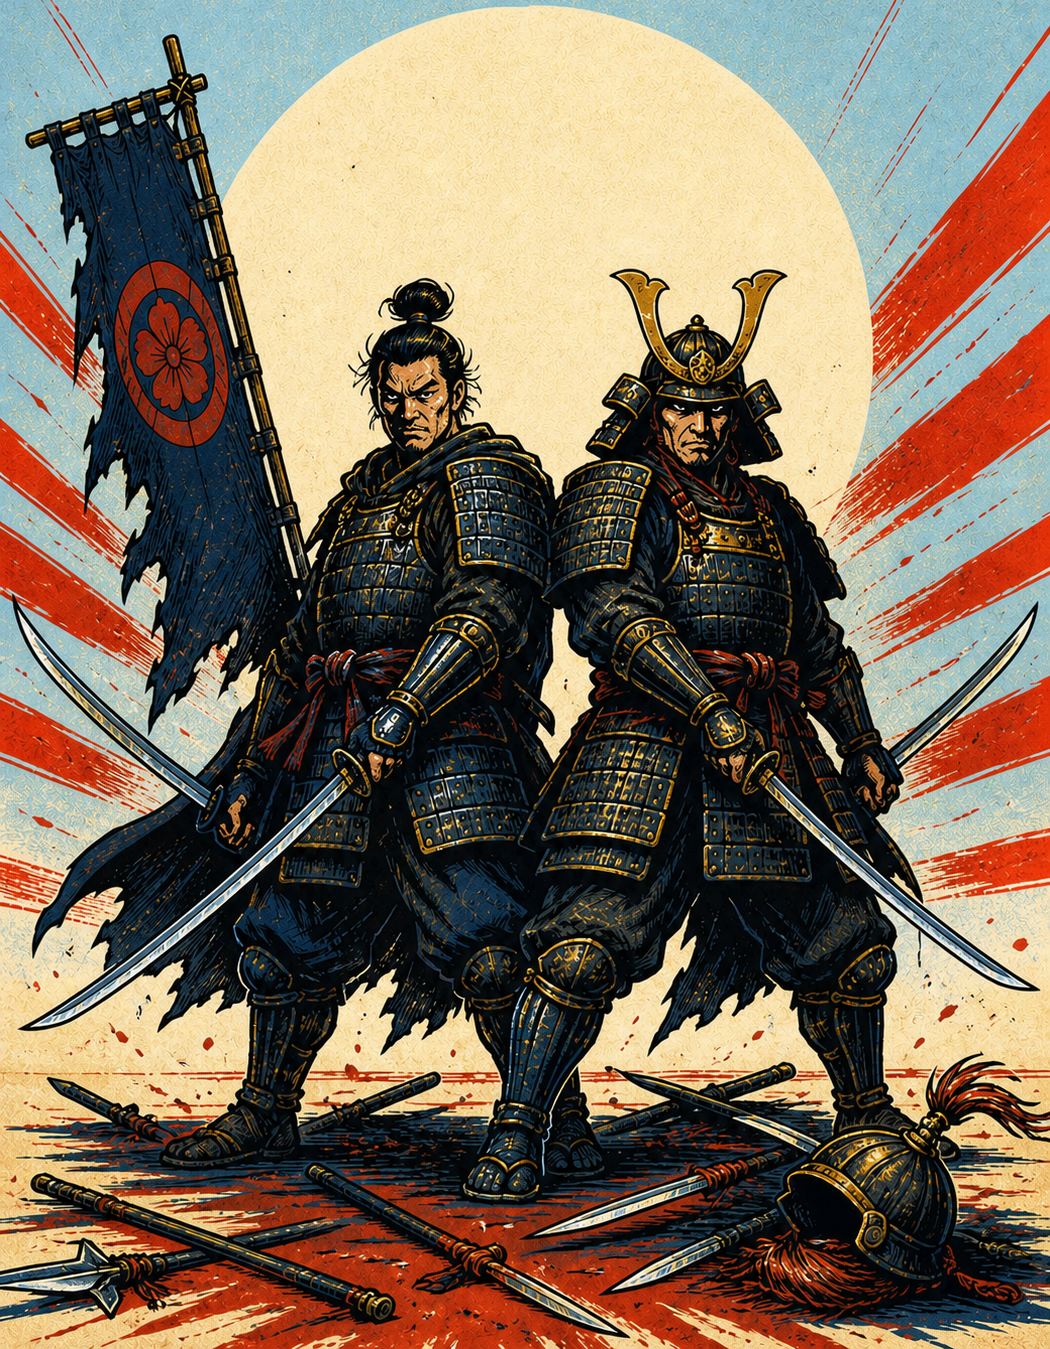
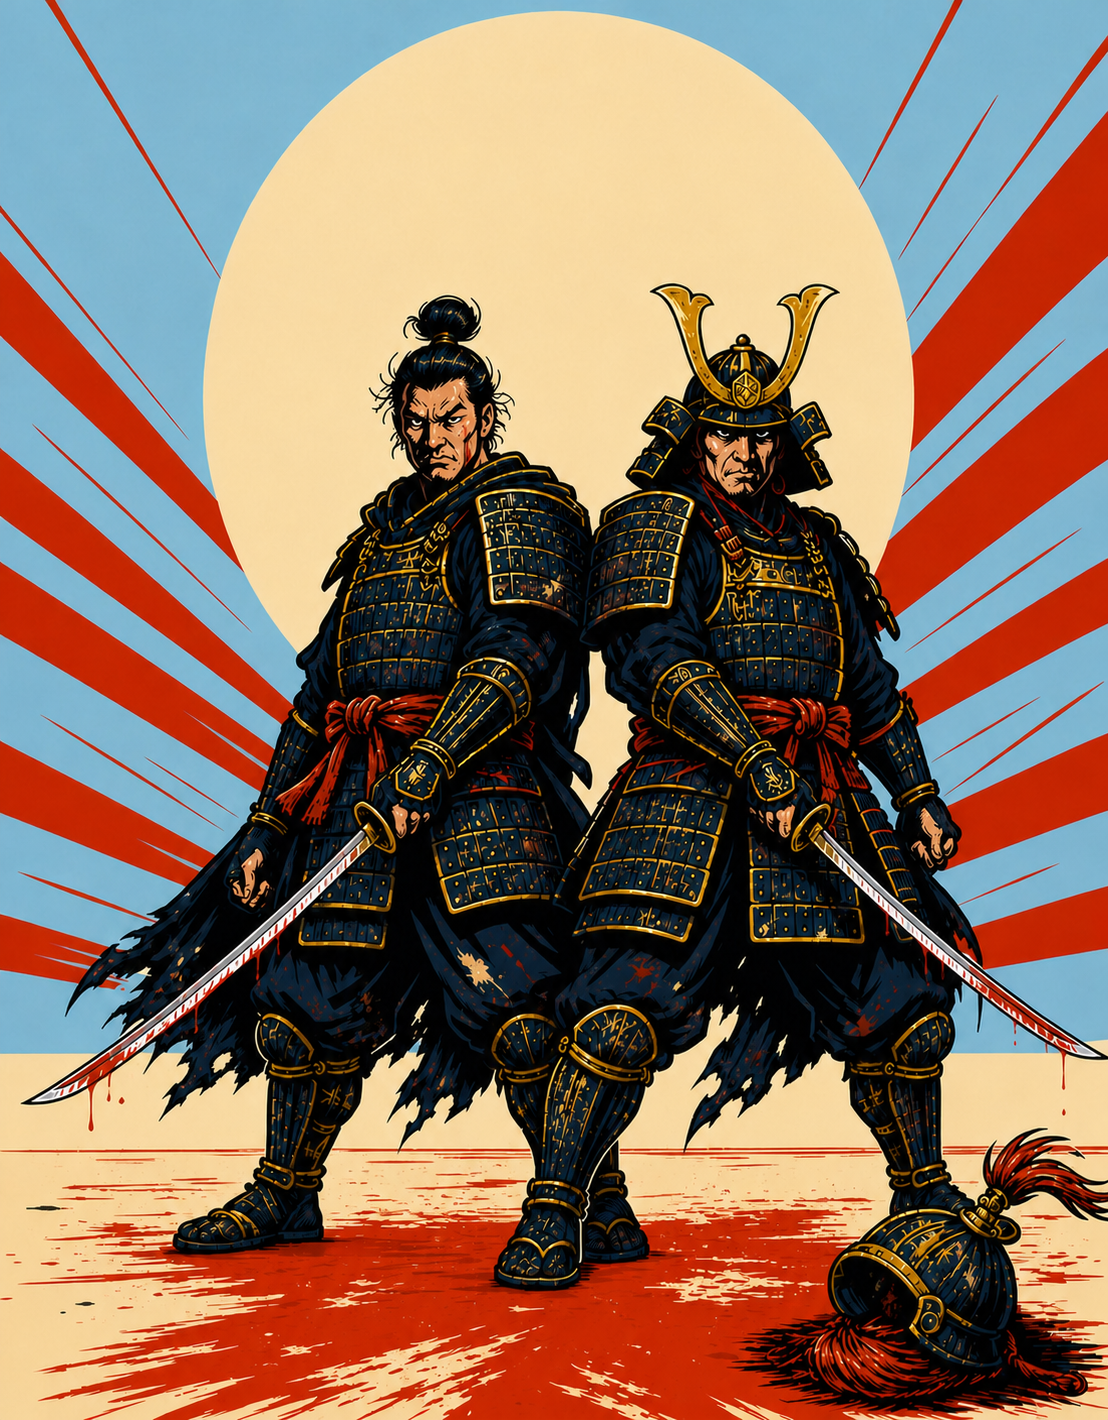
Плечом к плечу: PURE VECTOR с деталями боя; метод в cardimg/SKILL.md
Арт карты 1139 перерисован по новому методу: первый проход — чистый
вектор без всякой фактуры, затем отдельным проходом дорисованы кровь
на клинках и земле, рваные плащи, сколы на пластинах и блики, третьим
убрана пыль из-под ног. Зерно 1.78 против 9.58, которые набегали за
столько же проходов раньше; мазня 43.8% → 18.7%, светлого 1.1% → 27.7%.

SKILL.md, новый раздел «Правки готового арта: чистый вектор как база»:

- PURE VECTOR — готовый блок запретов на текстуру для промпта, даёт
  зерно 0.69. Начинать надо с него: один проход, композиция читается
  яснее всего, а обратный порядок невозможен — из зернистой картинки
  чистую фильтром не сделать.
- Разделение обязанностей: смысловые детали (кровь, пыль, сколы) —
  прогон модели, однородное по кадру (зерно, тон, контраст, кроп) —
  numpy/scipy без квоты.
- Каждая деталь должна заказываться как форма с жёстким краем, иначе
  модель понимает «грязь» как текстуру.
- Всё, что добавлено предыдущими проходами, перечисляется в следующем
  промпте поимённо как неприкосновенное — иначе причёсывается обратно.
- Референс — лёгкий JPEG до мегабайта: трёхмегабайтный PNG уронил
  прогон с «Unknown filter method 254».
- sheet_objects только для weapon-карт: на остальных он заставляет
  предметы летать по кадру.
- Нижнюю четверть арта съедает жёлтая плашка, поэтому важное держим
  в верхних двух третях, а перед укладкой режем верх, а не низ.

diff --git a/.claude/skills/cardimg/SKILL.md b/.claude/skills/cardimg/SKILL.md
@@ -391,6 +391,75 @@ py -3 .claude/skills/cardimg/gen4.py <финал>.json --tier final
 всё это поводы показать и предложить, а не положить файл молча. Правило
 целиком - в `CLAUDE.md`, раздел «Арт карт заменяется только по явной просьбе».
 
+## Правки готового арта: чистый вектор как база
+
+31.08.2026 на «Плечом к плечу» выяснилось три вещи, которые меняют порядок
+работы с уже одобренной картинкой.
+
+**Копи правки и делай их одним прогоном.** Каждая правка через `--ref` - это
+не дорисовка поверх пикселей, а полная перерисовка по мотивам: модель
+пересобирает картинку заново. Замер по цепочке из трёх проходов (превью →
+апскейл → снятие знамени): плотность резких пикселей 38.5% → 35.6% → 35.3%,
+уникальных цветов 72k → 66k → 67k. Потеря невелика и не лавинообразна, но
+**зерно накапливается сильно**: медианное локальное СКО дошло до 9.58 против
+0.69 у однопроходной отрисовки. И главный риск не в этом, а в сносе
+композиции - за сессию модель дважды развернула сцену (самураи спиной плюс
+Фудзи; третья рука у ниндзя).
+
+### PURE VECTOR - с этого стоит начинать
+
+**Первый проход по карте делай чистым вектором.** Блок требований в промпте:
+
+```
+Rendering requirement: perfectly clean flat colour fills with hard crisp black
+outlines, like a printed vector poster - absolutely no paper grain, no canvas
+texture, no speckling, no stipple dots, no film noise, no distressed or
+weathered overlay, no scratches, no halftone dots, and no colour mottling
+inside any flat area; every area of one colour must be a single smooth even
+fill. Keep the engraved hatching that describes the armour plates as clean
+deliberate lines, not as texture.
+```
+
+Даёт зерно **0.69** - то есть его нет вовсе, при этом мазня и светлота не
+страдают. Почему это правильная база, а не частный случай:
+
+- **один проход** - нечему накапливаться;
+- **композиция читается яснее всего**, огрехи анатомии видны сразу, а не
+  прячутся в фактуре;
+- **обратный порядок невозможен**: из зернистой картинки чистую фильтром не
+  сделать, медиана съедает вместе с зерном и штрих.
+
+Оговорка про последнюю строку блока: без неё запрет на текстуру сносит и
+гравюрную штриховку на доспехе, и ламелляр становится плоским пятном.
+
+Дальше на эту базу навешивается всё остальное - и здесь важно **разделение
+обязанностей**:
+
+| Что добавляем | Чем |
+|---|---|
+| Кровь, пыль, грязь, рваная ткань, сколы, блики - всё, у чего есть смысл и место в сцене | прогон модели по PURE VECTOR как референсу |
+| Зерно, стипл, тон, контраст, кроп - однородное по всему кадру, без смысла | numpy/scipy локально, без квоты |
+
+Правило-подсказка: правка формулируется как «добавь/убери **что-то**» - это
+модель; как «сделай **всё** чуть темнее/зернистее/контрастнее» - это numpy.
+
+При заказе нарисованных деталей обязательна строка **каждая деталь должна быть
+формой с жёстким краем, а не зерном, не россыпью точек и не грязной вуалью** -
+без неё модель понимает «грязь» как текстуру и возвращает ровно то, от чего
+PURE VECTOR уходил.
+
+Зерно потом добавляется локально и точной цифрой (numpy + scipy, без квоты):
+слабо коррелированный шум `gaussian_filter(randn, 0.55)`, амплитуда 4-10,
+маска `clip((L-20)/40,0,1)` чтобы не трогать чёрный контур, плюс редкий стипл.
+Амплитуда 4 даёт зерно ~4.3, амплитуда 10 - ~10. Для ориентира: у гравюрной
+части колоды оно около 6-9.
+
+**Референс - лёгкий JPEG до мегабайта, а не продакшн-PNG.** Отдача
+трёхмегабайтного RGBA-PNG уронила прогон с `Format error decoding Png:
+Unknown filter method 254` - это тот же плавающий отказ декодера, что описан
+выше про листы `ref/`. Пересохранение в JPEG 1200 px q90 (0.35 МБ) чинит.
+Квота на таком падении не тратится: оно происходит до генерации.
+
 ## Стоимость
 
 Один вызов скилла до выбора - четыре списания квоты Plus, с финалом пять.
